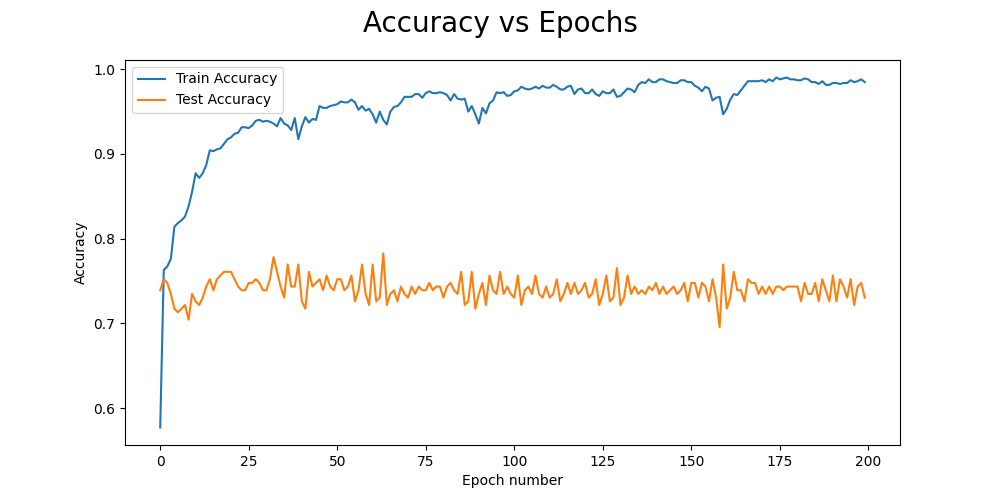
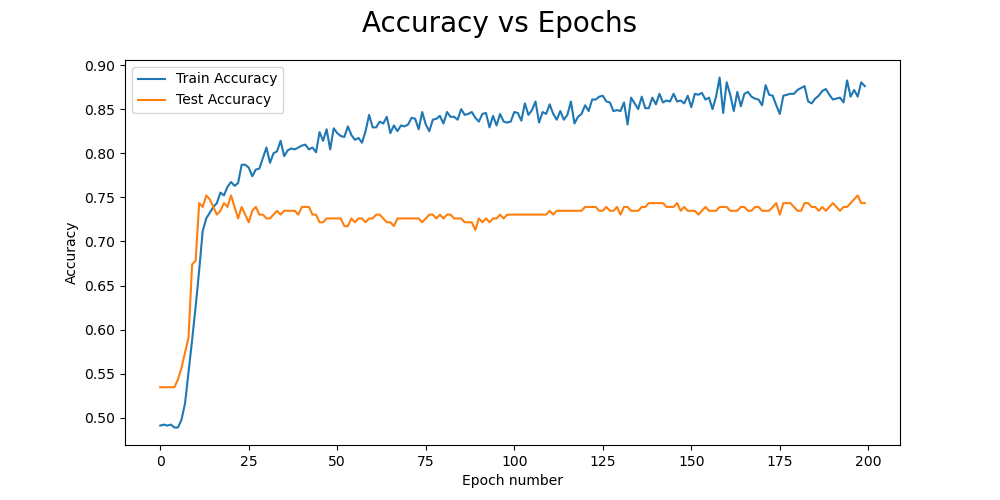
added hyperparameter tuning loops, dropout rate, regularization

diff --git a/src/modelComparison_pytorch.py b/src/modelComparison_pytorch.py
@@ -8,7 +8,8 @@ from sklearn.model_selection import train_test_split
 from sklearn.preprocessing import StandardScaler
 import torch
 from torch import nn
-from torch.utils.data import DataLoader 
+from torch.utils.data import DataLoader
+from sklearn.model_selection import KFold 
 
 def get_args():
     parser = argparse.ArgumentParser()
@@ -71,6 +72,12 @@ def prepare_data(args=get_args()):
                                                             random_state = seed)
     return X_train, X_test, y_train, y_test
 
+hyperparams = {
+    'lr': [1e-3, 1e-4],
+    'hidden': [128, 256],
+    'batch_size': [100, 200]
+}
+
 def run(args=get_args()):
     # print(args.hidden, args.hidden1, args.hidden2)
     # exit()
@@ -113,6 +120,7 @@ def run(args=get_args()):
                 nn.Linear(input_dim, int(args.hidden)), # apply linear transformation to the incoming data : y = x*W^T+b
                                         # weight here will be size of output * input
                 nn.ReLU(),  # rectified linear unit function: 0 for values < 0 and linear function if > 0
+                nn.Dropout(p=0.5), #add dropout to avoid overfitting
                 nn.Linear(int(args.hidden), int(args.hidden1)),
                 nn.ReLU(),
                 nn.Linear(args.hidden1, args.hidden2),
@@ -143,7 +151,7 @@ def run(args=get_args()):
         # migrated to CrossEntropyLoss so that we are getting probabilities for each class
     print(model.parameters())
 
-    optimizer = torch.optim.Adam(model.parameters(), lr=args.lr) # lr = learning rate
+    optimizer = torch.optim.Adam(model.parameters(), lr=args.lr, weight_decay=1e-5) # lr = learning rate, weight decay for l2 regularization
 
     def train(dataloader, model, loss_fn, optimizer):
         size = len(dataloader.dataset)
@@ -242,4 +250,17 @@ def run(args=get_args()):
     print("Saved!")
 
 if __name__ == "__main__":
-    run()
+    # Parse command-line arguments once
+    args = get_args()
+
+    # If running experiments manually, override args here
+    for lr in hyperparams['lr']:
+        for hidden in hyperparams['hidden']:
+            for batch_size in hyperparams['batch_size']:
+                # Override args for the current loop iteration
+                args.lr = lr
+                args.hidden = hidden
+                args.batch_size = batch_size
+                
+                # Now call your training function with these args
+                run(args)
